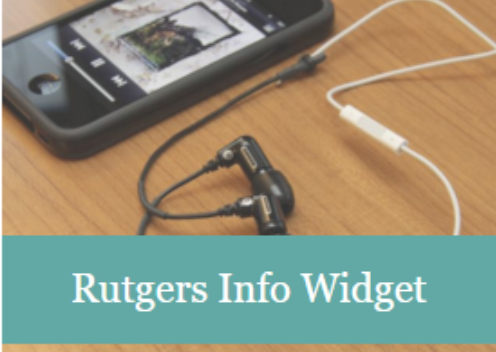
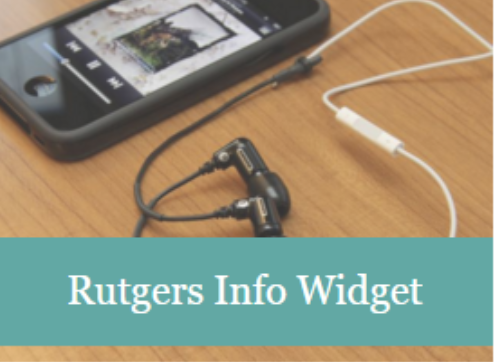
OMG I am so happy right now.

diff --git a/myportfolio.html b/myportfolio.html
@@ -12,31 +12,33 @@
 <body>
 <h2>Portfolio</h2>
 <div class="Smallgray"></div>
+<p><a href="#"> | About |</a><a href="myportfolio.html"/> Portfolio </a><a href="contactme.html"/> Contact |</a></p>
 <div class="tablecells">
-<table border="0" cellpadding="1" background-color "#ffffff" valign="left"><tr>
-<td align="left" valign="left">
+<table border="0" cellpadding="1" background-color "#ffffff">
+        <tr>
+ <td align="left" valign="center">
 <img src="/Users/rikki/Desktop/Basic-Portfolio/assets/images/Rock paper scissors.png" width="200" height="200" alt="Rock Paper Scissors" /> <br/>
- </td>
- <td align="left" valign="left">
+   </td>
+<td align="left" valign="center">
  <img src="/Users/rikki/Desktop/Basic-Portfolio/assets/images/Hangman.png" width="200" height="200" alt= "Hangman" /> <br/>
  </td>
+ </tr>
 <tr>
-<td align="left" valign="left">
- <img src="/Users/rikki/Desktop/Basic-Portfolio/assets/images/Trivia Game.png" alt="Trivia Game" width="200" height="200"/> <br />
- </td>                                              
- <td align="left" valign="left">
+<td align="left" valign="center">
+ <img src="/Users/rikki/Desktop/Basic-Portfolio/assets/images/Trivia Game.png" width="200" height="200" alt="Trivia Game"> <br />
+ </td>                                         
+ <td align="left" valign="center">
 <img src="/Users/rikki/Desktop/Basic-Portfolio/assets/images/RPG Game.png" width="200" height="200" alt="RPG Game"/>
 <br />                                             
- </td>                                              
- </tr>
- <td align="left" valign="left">
- <img src="/Users/rikki/Desktop/Basic-Portfolio/assets/images/Rutgers Info Widget.png" width="200" height="200" alt="Rutger's Info Widget"/>
-  <br />                                             
- </td>                                              
+ </td>
+</tr>     
+<tr>                                    
+ <td align="left" valign="center">                                         
+<img src="/Users/rikki/Desktop/Basic-Portfolio/assets/images/Rutgers Info Widget.png" width="200" height="200" alt="Rutgers"/>                                            
+</td>  
 </tr>
 </table>
 </div>       
-</div>
  <div class="Sidebar"> 
                 <h2>Connect With Me</h2>
                 <div class="smallgray"></div>
@@ -47,7 +49,7 @@
 </main>
 </body>
 <footer>
-        <sub>&copy; Copyright 2018 by Rikki</sub>
-        </div>
-        </footer>
+                <sub>&copy; Copyright 2018 by Rikki</sub>
+                </div>
+                </footer>
 </html>

diff --git a/css/style.css b/css/style.css
@@ -53,8 +53,8 @@ h2 {color: #4aaaa5;
     text-align: left;
     background-color: #ffffff;
     float: clear;
-    width: 270px;
-    padding: 20px;
+    width: 250px;
+    padding: 15px;
 }
 
 
@@ -125,7 +125,7 @@ sub {
     background-color: #ffffff;
     display: block;
     margin: 0px;
-    padding: 0, 15 px;
+    padding: 0, 15px;
     float: right;
     display: inline-block;
     position: relative;
@@ -190,35 +190,16 @@ table {
 }
 
 .tablecells {
+    width: 630px;
     height: auto;
     background-color: #ffffff;
     float: left;
-    position: top;
     display: inline;
-
-
 }
 
-td {
-height: 200px;
-width: 200px;
-background-color: #ffffff;
-float: left;
-position: top;
-padding: 0;
-margin: auto;
-}
-tr {
-    height: 200px;
-    width: 200px;
-    background-color: #ffffff;
-    float: left;
-    position: top;
-    padding: 0;
-    margin: auto;
-    }
 
 tbody {
+        float: left;
         display: table-row-group;
         vertical-align: top;
         border-color: inherit;

diff --git a/index.html b/index.html
@@ -9,8 +9,7 @@
         </head>
 <header>
         <h1>Rikki Honnold</h1>
-        <p>
-        <a href="#"> | About |</a><a href="myportfolio.html"/> Portfolio | </a><a href="contactme.html"/> Contact |</a></p>
+        <li> <a href="#"> | About |</a><a href="myportfolio.html"/> Portfolio | </a><a href="contactme.html"/> Contact |</a></li>
 </header>
 <body>
 <div class="MainHeader">

diff --git a/contactme.html b/contactme.html
@@ -26,6 +26,7 @@
                 <label>
                          Message
                         <input type="textarea">
+                        <input type="submit" value="Submit">
                     </label>
             </form>
             <div class="Sidebar"> 
